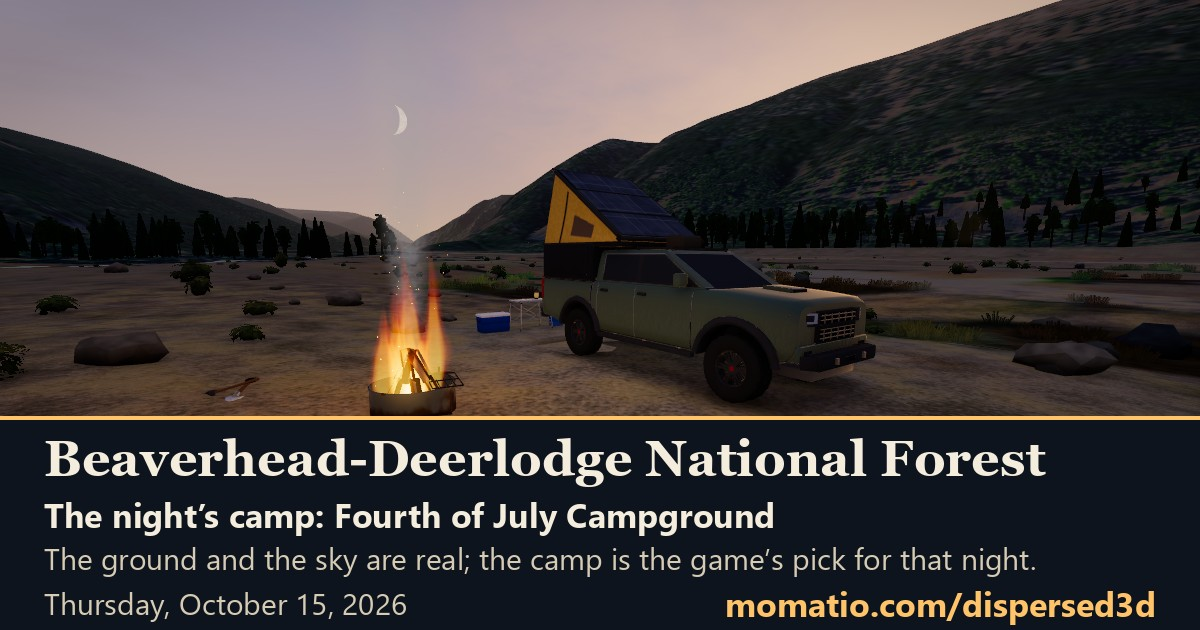
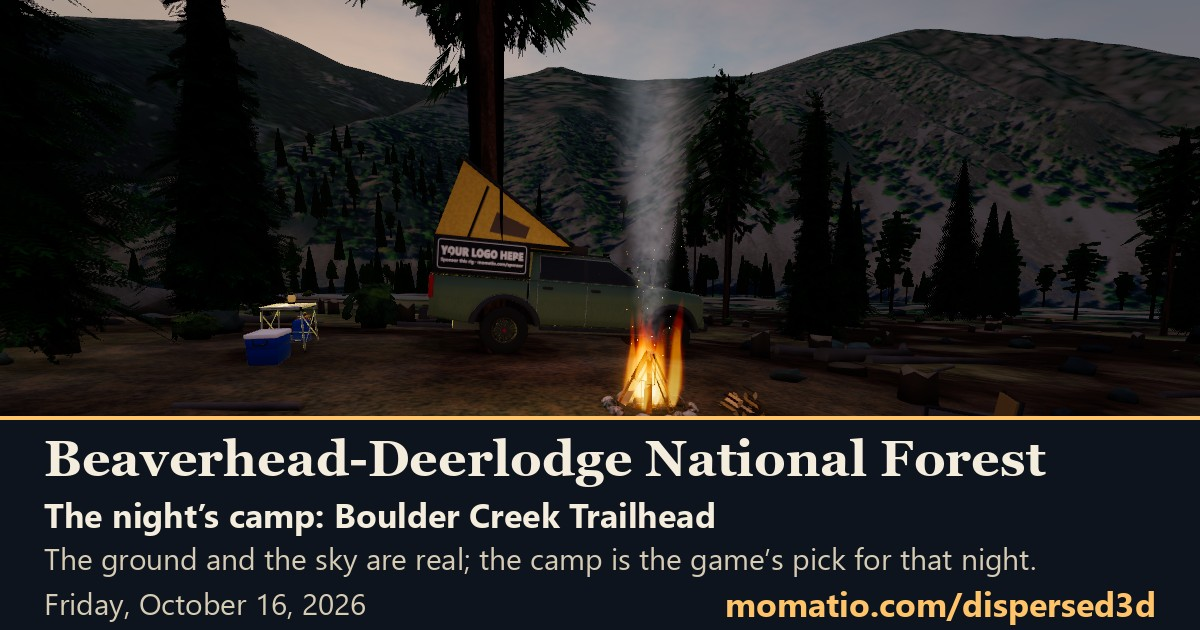
Release 2026-10-15d: the real dusk, the Moon's real face, the Milky Way as photographed, and a day at camp
Claude-Session: https://claude.ai/code/session_01JJzT1DsoBWtYVWVcn1Rthj

diff --git a/README.md b/README.md
@@ -32,14 +32,14 @@ This is a game laid over real places, and the real places do most of the work. H
 
 ## What's new
 
-**October 15, 2026, afternoon: Stow the food where the Forest Service says so, rain on the tent, a creek that sounds like its gauge, and cliffs without streaks**
+**October 15, 2026, evening: The real dusk, the Moon's real face, the Milky Way as photographed, and a day at camp**
 
-- Where a forest's own alerts page posts a Food Storage Order, the night checklist gains "Stow the food: cooler and food in the truck", with the order's number, its dates and a link to the order. The game works out each camp's ranger district from the Forest Service's district map, so the chore says plainly when a camp is inside the area the order names; where the order's area cannot be placed, it says that too. Where no order is posted, nothing changes
-- Rain on the tent: in the hours the National Weather Service forecast says rain, settled in or sitting by the fire you hear it, louder in the tent than by the fire. The sound is made by the game itself, not a recording, and stays off until you turn the sound on. The morning card says which hours it rained, by the forecast
-- At the three camps on Hyalite Creek, the creek is louder when the USGS gauge reads higher than on your first night there and quieter when it reads lower, and the engine-off card says why, with the gauge's own height and the time it was read
-- Steep faces no longer show long green and brown stripes where the overhead photo was stretched down the cliff: they take their color from the photo around them, and the rock grain shows
-- On a phone, the second night in a forest offers once to put the game on your Home Screen: a button where the browser can install it, the Share steps on an iPhone
-- On davelalande.com, the 22 camp pages the game holds now show the game's own picture of that camp before sunset, labeled as the game's view, and the game's day there: the fire rule, tonight's low and the creek gauge, each with its source
+- Dusk is now worked out by the game's own model of sunlight passing through the air, instead of a hand-picked table of colors: an orange band low over the real ridge, fading through lilac to blue after the sun goes down, and properly dark at night
+- The Moon wears its real face, from NASA's Lunar Reconnaissance Orbiter map, lit by tonight's real phase, and at a dark camp the Milky Way is the European Southern Observatory's all-sky photograph, placed by the same clock as the stars
+- A day at camp: the morning card offers "Stay today". The afternoon follows the Weather Service's real hours, the sun crosses camp and the truck's shade moves with it, and the evening ends at the real dark. What a day costs in water is the game's guess, labeled as one
+- The Starlink dish, the traction boards and a steel pipe gate built in Momatio's Asset Lab replace the plain shapes, and the ground tent has canvas with seams
+- On a phone, the truck shows its full finish while you are parked at camp, and on dirt roads dust builds up on the hood until the forecast's rain washes it off
+- On a phone, smoother edges along tree lines and ridges can be switched on by adding &aa=1 to the game's address. It stays off until it has been tried on real phones
 
 [Every release, in the changelog](https://github.com/davelalande/dispersed3d-progress/blob/main/CHANGELOG.md)
 

diff --git a/CHANGELOG.md b/CHANGELOG.md
@@ -2,6 +2,15 @@
 
 Every release of the live game, newest first. Play it at **[momatio.com/dispersed3d](https://momatio.com/dispersed3d/)**.
 
+## October 15, 2026, evening: The real dusk, the Moon's real face, the Milky Way as photographed, and a day at camp
+
+- Dusk is now worked out by the game's own model of sunlight passing through the air, instead of a hand-picked table of colors: an orange band low over the real ridge, fading through lilac to blue after the sun goes down, and properly dark at night
+- The Moon wears its real face, from NASA's Lunar Reconnaissance Orbiter map, lit by tonight's real phase, and at a dark camp the Milky Way is the European Southern Observatory's all-sky photograph, placed by the same clock as the stars
+- A day at camp: the morning card offers "Stay today". The afternoon follows the Weather Service's real hours, the sun crosses camp and the truck's shade moves with it, and the evening ends at the real dark. What a day costs in water is the game's guess, labeled as one
+- The Starlink dish, the traction boards and a steel pipe gate built in Momatio's Asset Lab replace the plain shapes, and the ground tent has canvas with seams
+- On a phone, the truck shows its full finish while you are parked at camp, and on dirt roads dust builds up on the hood until the forecast's rain washes it off
+- On a phone, smoother edges along tree lines and ridges can be switched on by adding &aa=1 to the game's address. It stays off until it has been tried on real phones
+
 ## October 15, 2026, afternoon: Stow the food where the Forest Service says so, rain on the tent, a creek that sounds like its gauge, and cliffs without streaks
 
 - Where a forest's own alerts page posts a Food Storage Order, the night checklist gains "Stow the food: cooler and food in the truck", with the order's number, its dates and a link to the order. The game works out each camp's ranger district from the Forest Service's district map, so the chore says plainly when a camp is inside the area the order names; where the order's area cannot be placed, it says that too. Where no order is posted, nothing changes
